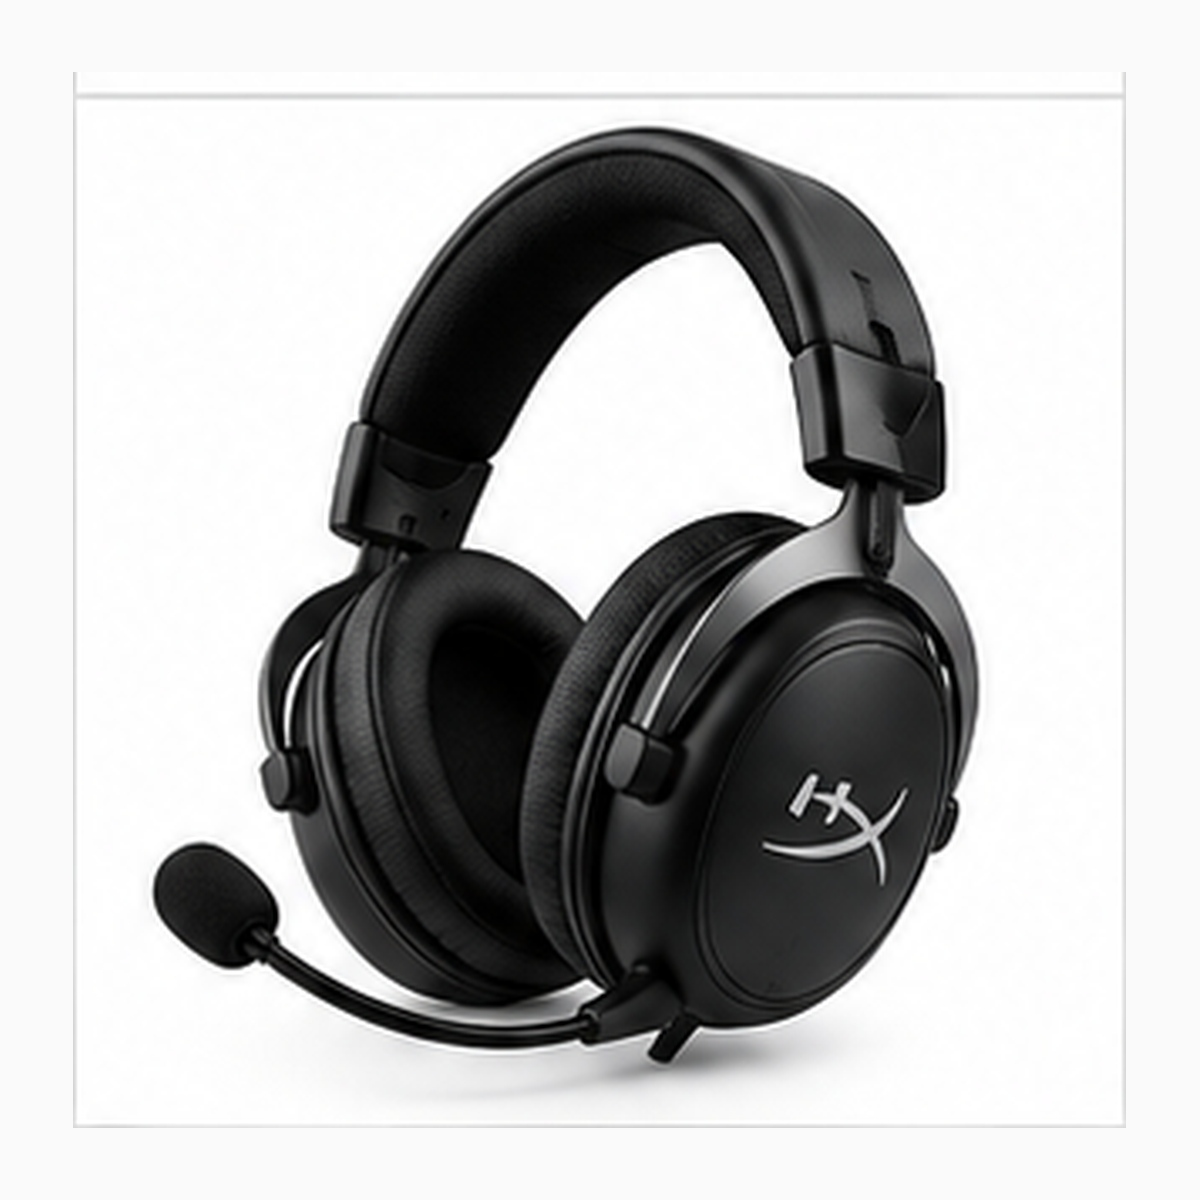
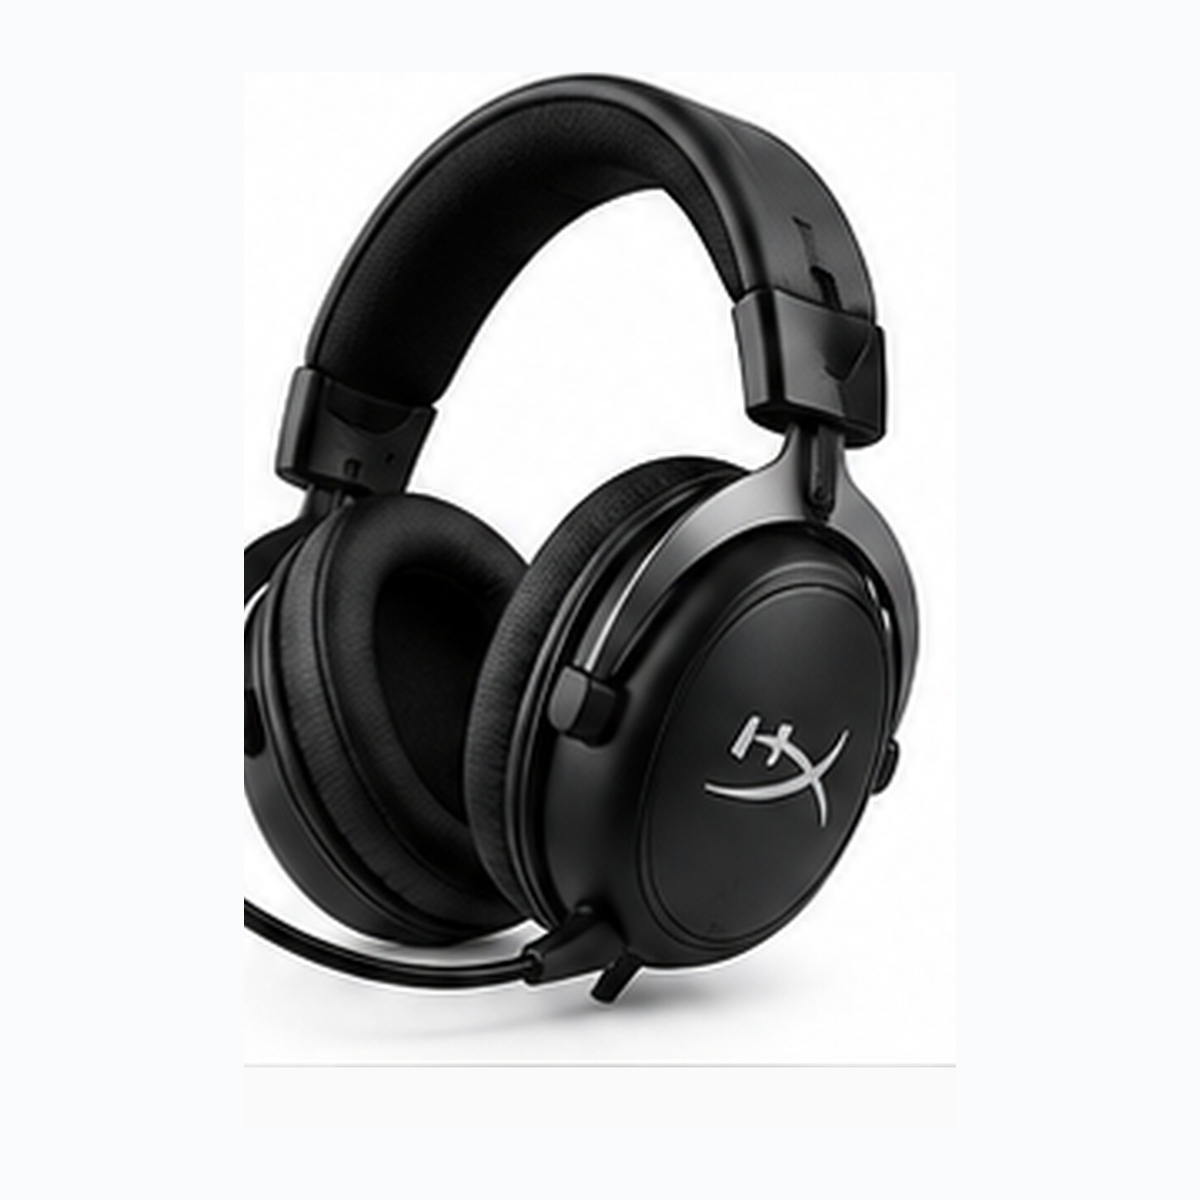
Add files via upload

Changed region(s): [[0.0617, 0.0617, 0.8325, 0.925], [0.8633, 0.0617, 0.9558, 0.0925]]

diff --git a/style.css b/style.css
@@ -77,3 +77,28 @@
 .photo,.product-image{aspect-ratio:1/1;display:flex;align-items:center;justify-content:center;overflow:hidden;background:#f6f7f9}
 .photo img,.product-image img{width:100%;height:100%;object-fit:contain !important;object-position:center !important;padding:0 !important}
 .cat img{aspect-ratio:1/1;width:100%;height:auto;object-fit:contain !important;object-position:center !important;padding:0 !important}
+
+/* V4 FINAL IMAGE PRESENTATION */
+.photo{
+  width:100%;
+  aspect-ratio:1/1;
+  display:flex;
+  align-items:center;
+  justify-content:center;
+  overflow:hidden;
+  background:#f4f6f9;
+}
+.photo img{
+  width:100%;
+  height:100%;
+  object-fit:contain !important;
+  object-position:center center !important;
+  display:block;
+}
+.cat img{
+  width:100%;
+  aspect-ratio:1/1;
+  display:block;
+  object-fit:contain !important;
+  object-position:center center !important;
+}

diff --git a/README.md b/README.md
@@ -27,3 +27,7 @@ The catalog uses dedicated product-only photography assets. Each product asset i
 ## V3 Image Reconstruction
 
 The catalog image library was rebuilt from clean product-only photography. Each product file contains exactly one gaming product, centered in a 1200×1200 square asset and presented with `object-fit: contain`; no webpage screenshots, prices, ratings, buttons, navigation, or mixed product cards are used as product photography.
+
+## V4 Image Rebuild
+
+Every catalog image is now a dedicated single-product photograph, tightly framed around the product and placed in a square asset. Product cards use centered `object-fit: contain` so one product appears per frame without repeated collages, webpage UI, or oversized blank margins.
